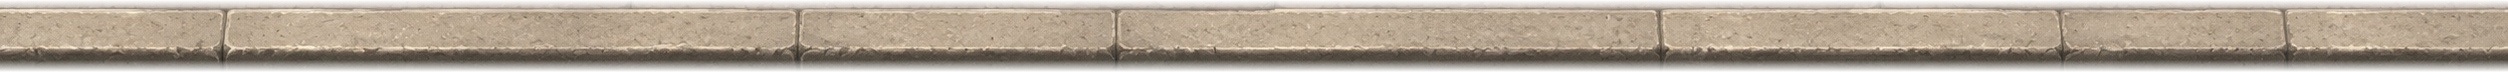
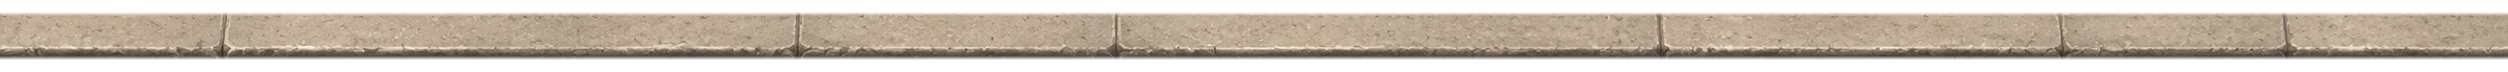
Clean curb edges: kill the ragged "stuff coming out of the edge"
The hand-painted stone curb has mortar joints and a bumpy, bright-rimmed
painted silhouette that read as broken/lacy edges at zoom. Three bake passes
give every curb a clean built edge:

- Corner strokes a JOINT-FREE window of the strip (shorter than one block), so
  the arc is one smooth continuous curb instead of rotated block joints.
- A swept clean-edge mask (bake_stroke cleanOut/cleanIn) + matching straight-strip
  trim (trim_straight) shave the bumpy silhouette to a smooth curve; the grass
  keeps its inner blade side loose.
- clean_edges caps the semi-transparent feather's brightness so the edge blends
  into the sidewalk instead of glowing as a bright scalloped fringe.

Re-baked sep-corner-{road,grass}.png + trimmed sep-{road,grass}-curb.png.

Claude-Session: https://claude.ai/code/session_01MzT91WcyqemncboiCffQLx

diff --git a/CLAUDE.md b/CLAUDE.md
@@ -105,6 +105,15 @@ feet-anchored to one ground-Y, which is the sort key.
   `sep-corner-road` convex, `sep-corner-grass` concave), so the corner curb is
   byte-identical to the straight curb — its arms overlap the straights seamlessly
   (no doubled line), and being a thin band it can't print a picture-frame halo.
+  The curb art is stone BLOCKS with dark mortar joints and a ragged, bright-rimmed
+  painted edge; three bake passes keep the built edge CLEAN (the recurring "stuff
+  coming out of the edge"): (a) the corner strokes a **joint-free window** of the
+  strip (shorter than one block) so the arc is one smooth continuous curb, no
+  joints; (b) a **swept clean-edge mask** (`bake_stroke` cleanOut/cleanIn) trims the
+  bumpy hand-painted silhouette to a smooth curve — grass keeps its inner (blade)
+  side loose; the straight strips get the matching top/edge trim (`trim_straight`);
+  (c) `clean_edges` caps the luminance of the semi-transparent feather so the edge
+  blends into the sidewalk instead of glowing as a bright scalloped lace.
   `drawCornerTile` pins the baked elbow fraction to the junction and mirrors to
   all four rotations; all four road corners exist (the cross-street sidewalk runs
   both N and S of the boulevard). Code-drawn `drawCurb`/`drawExpansionJoint`
